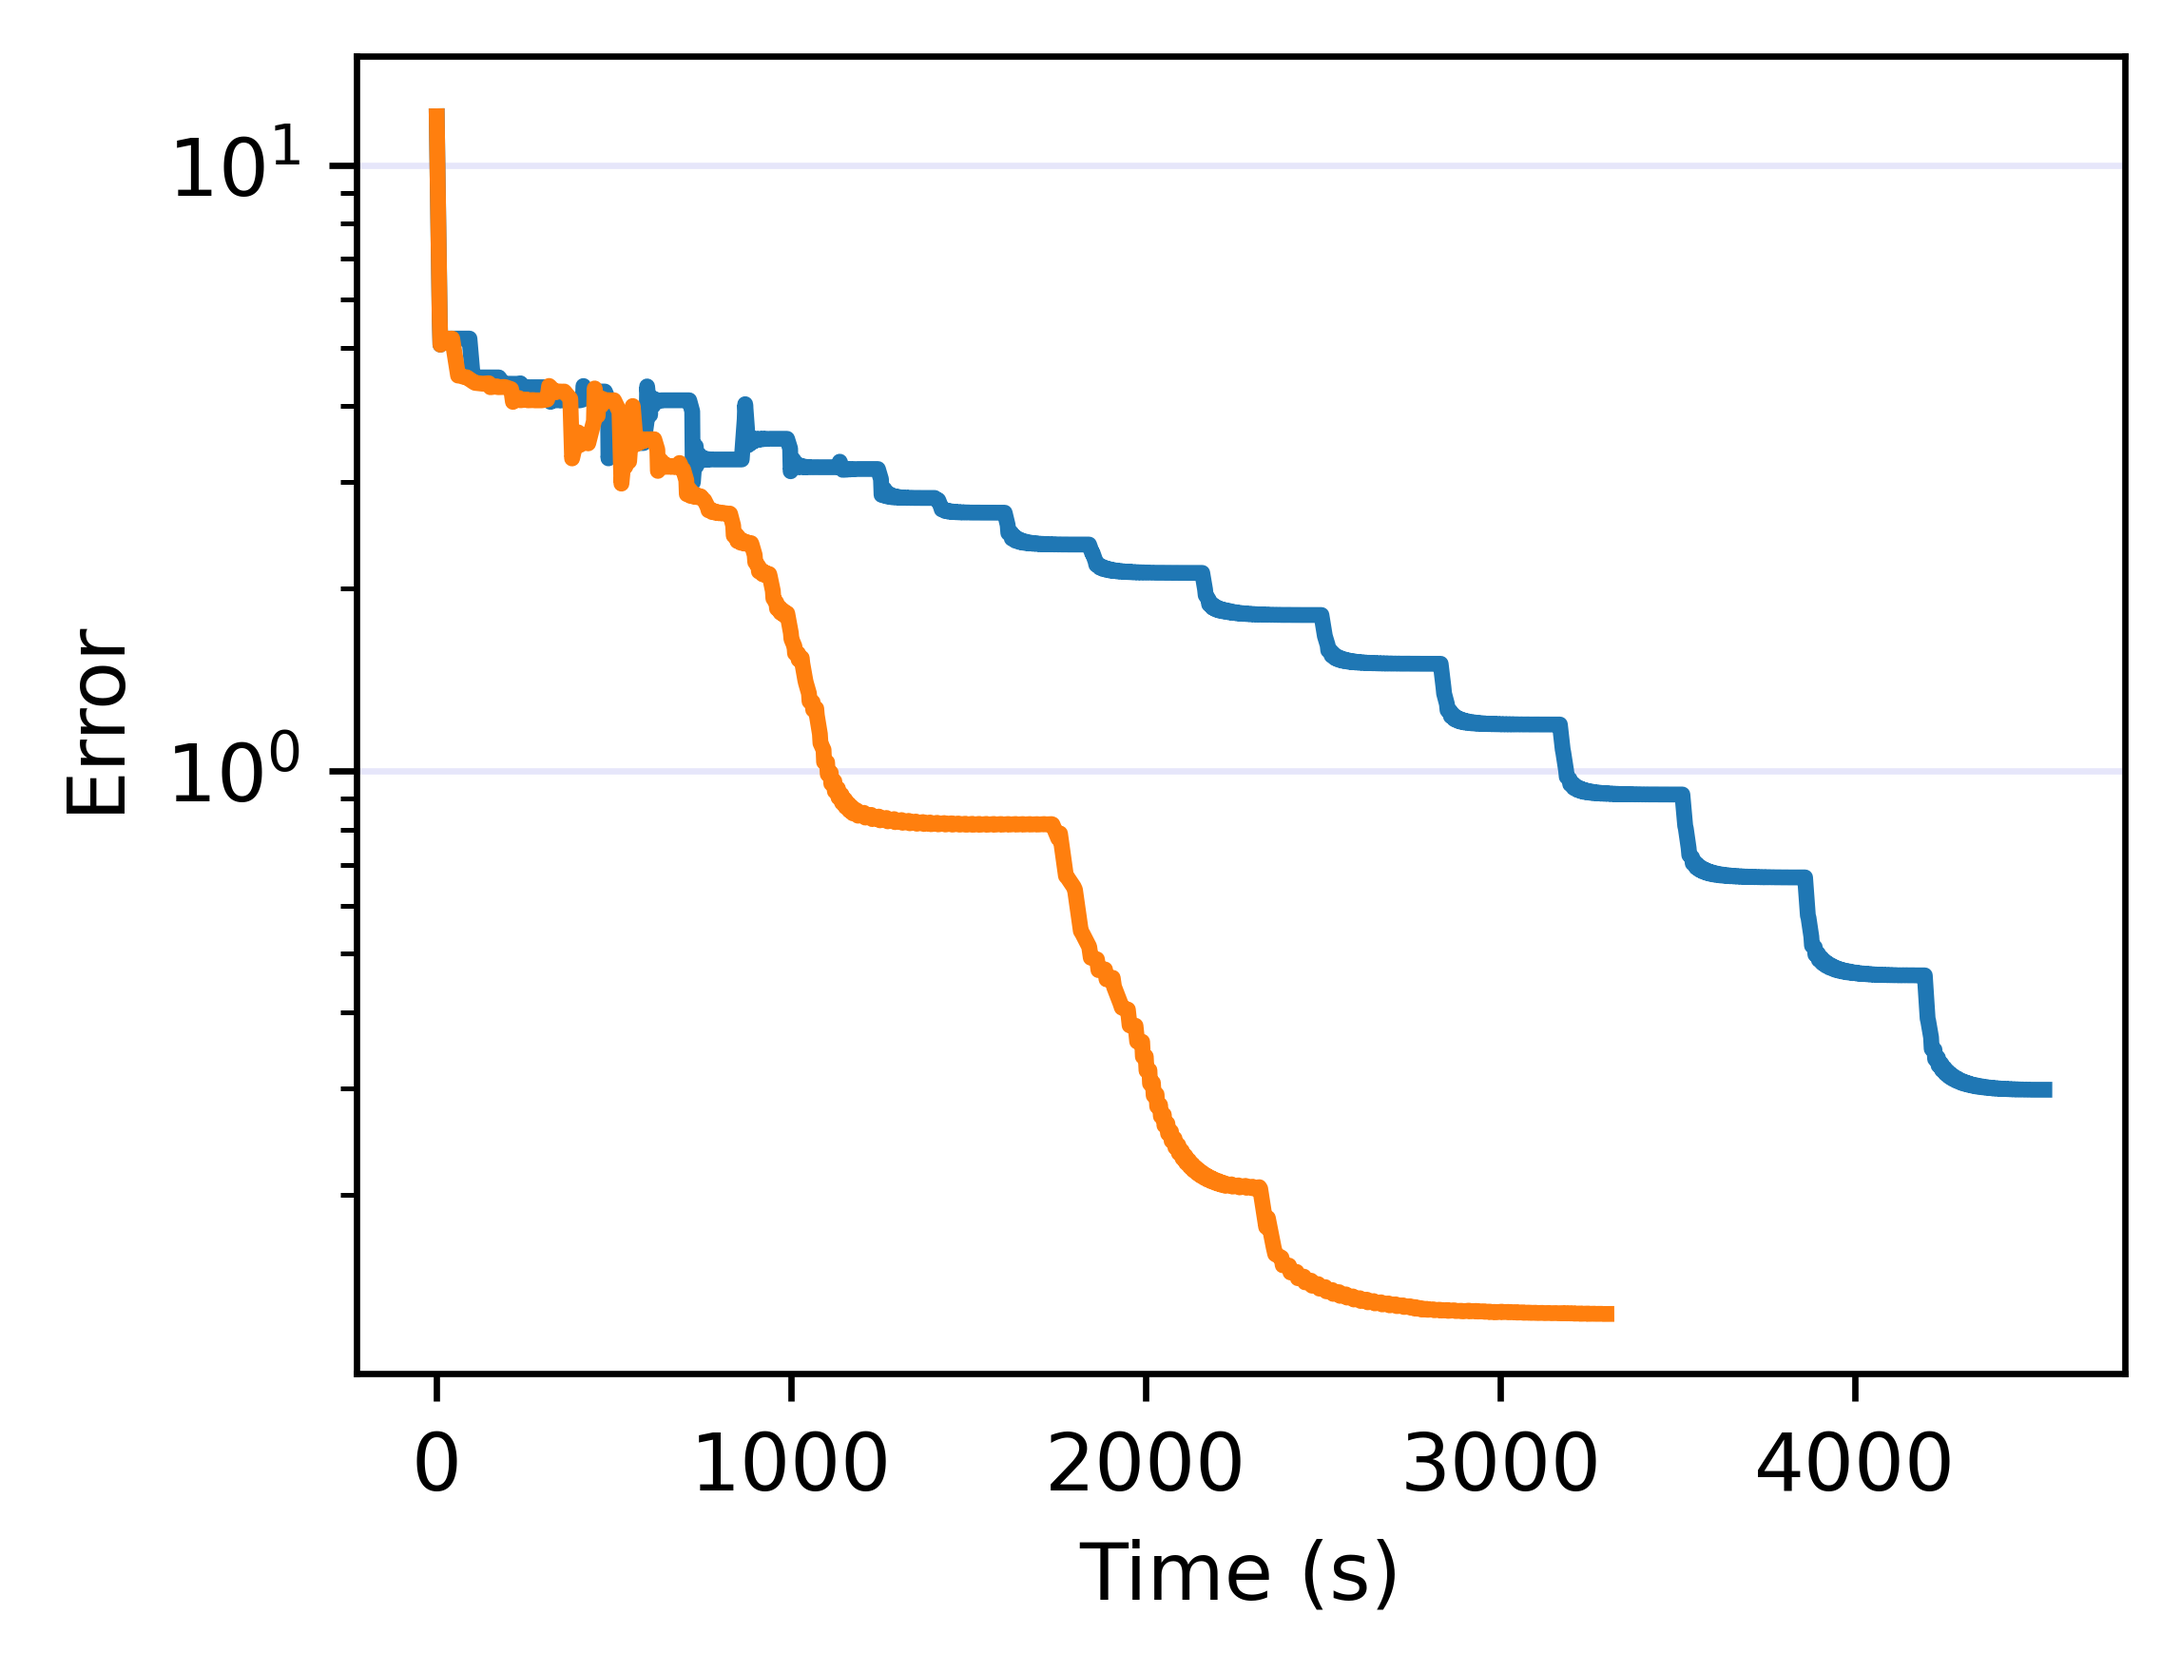
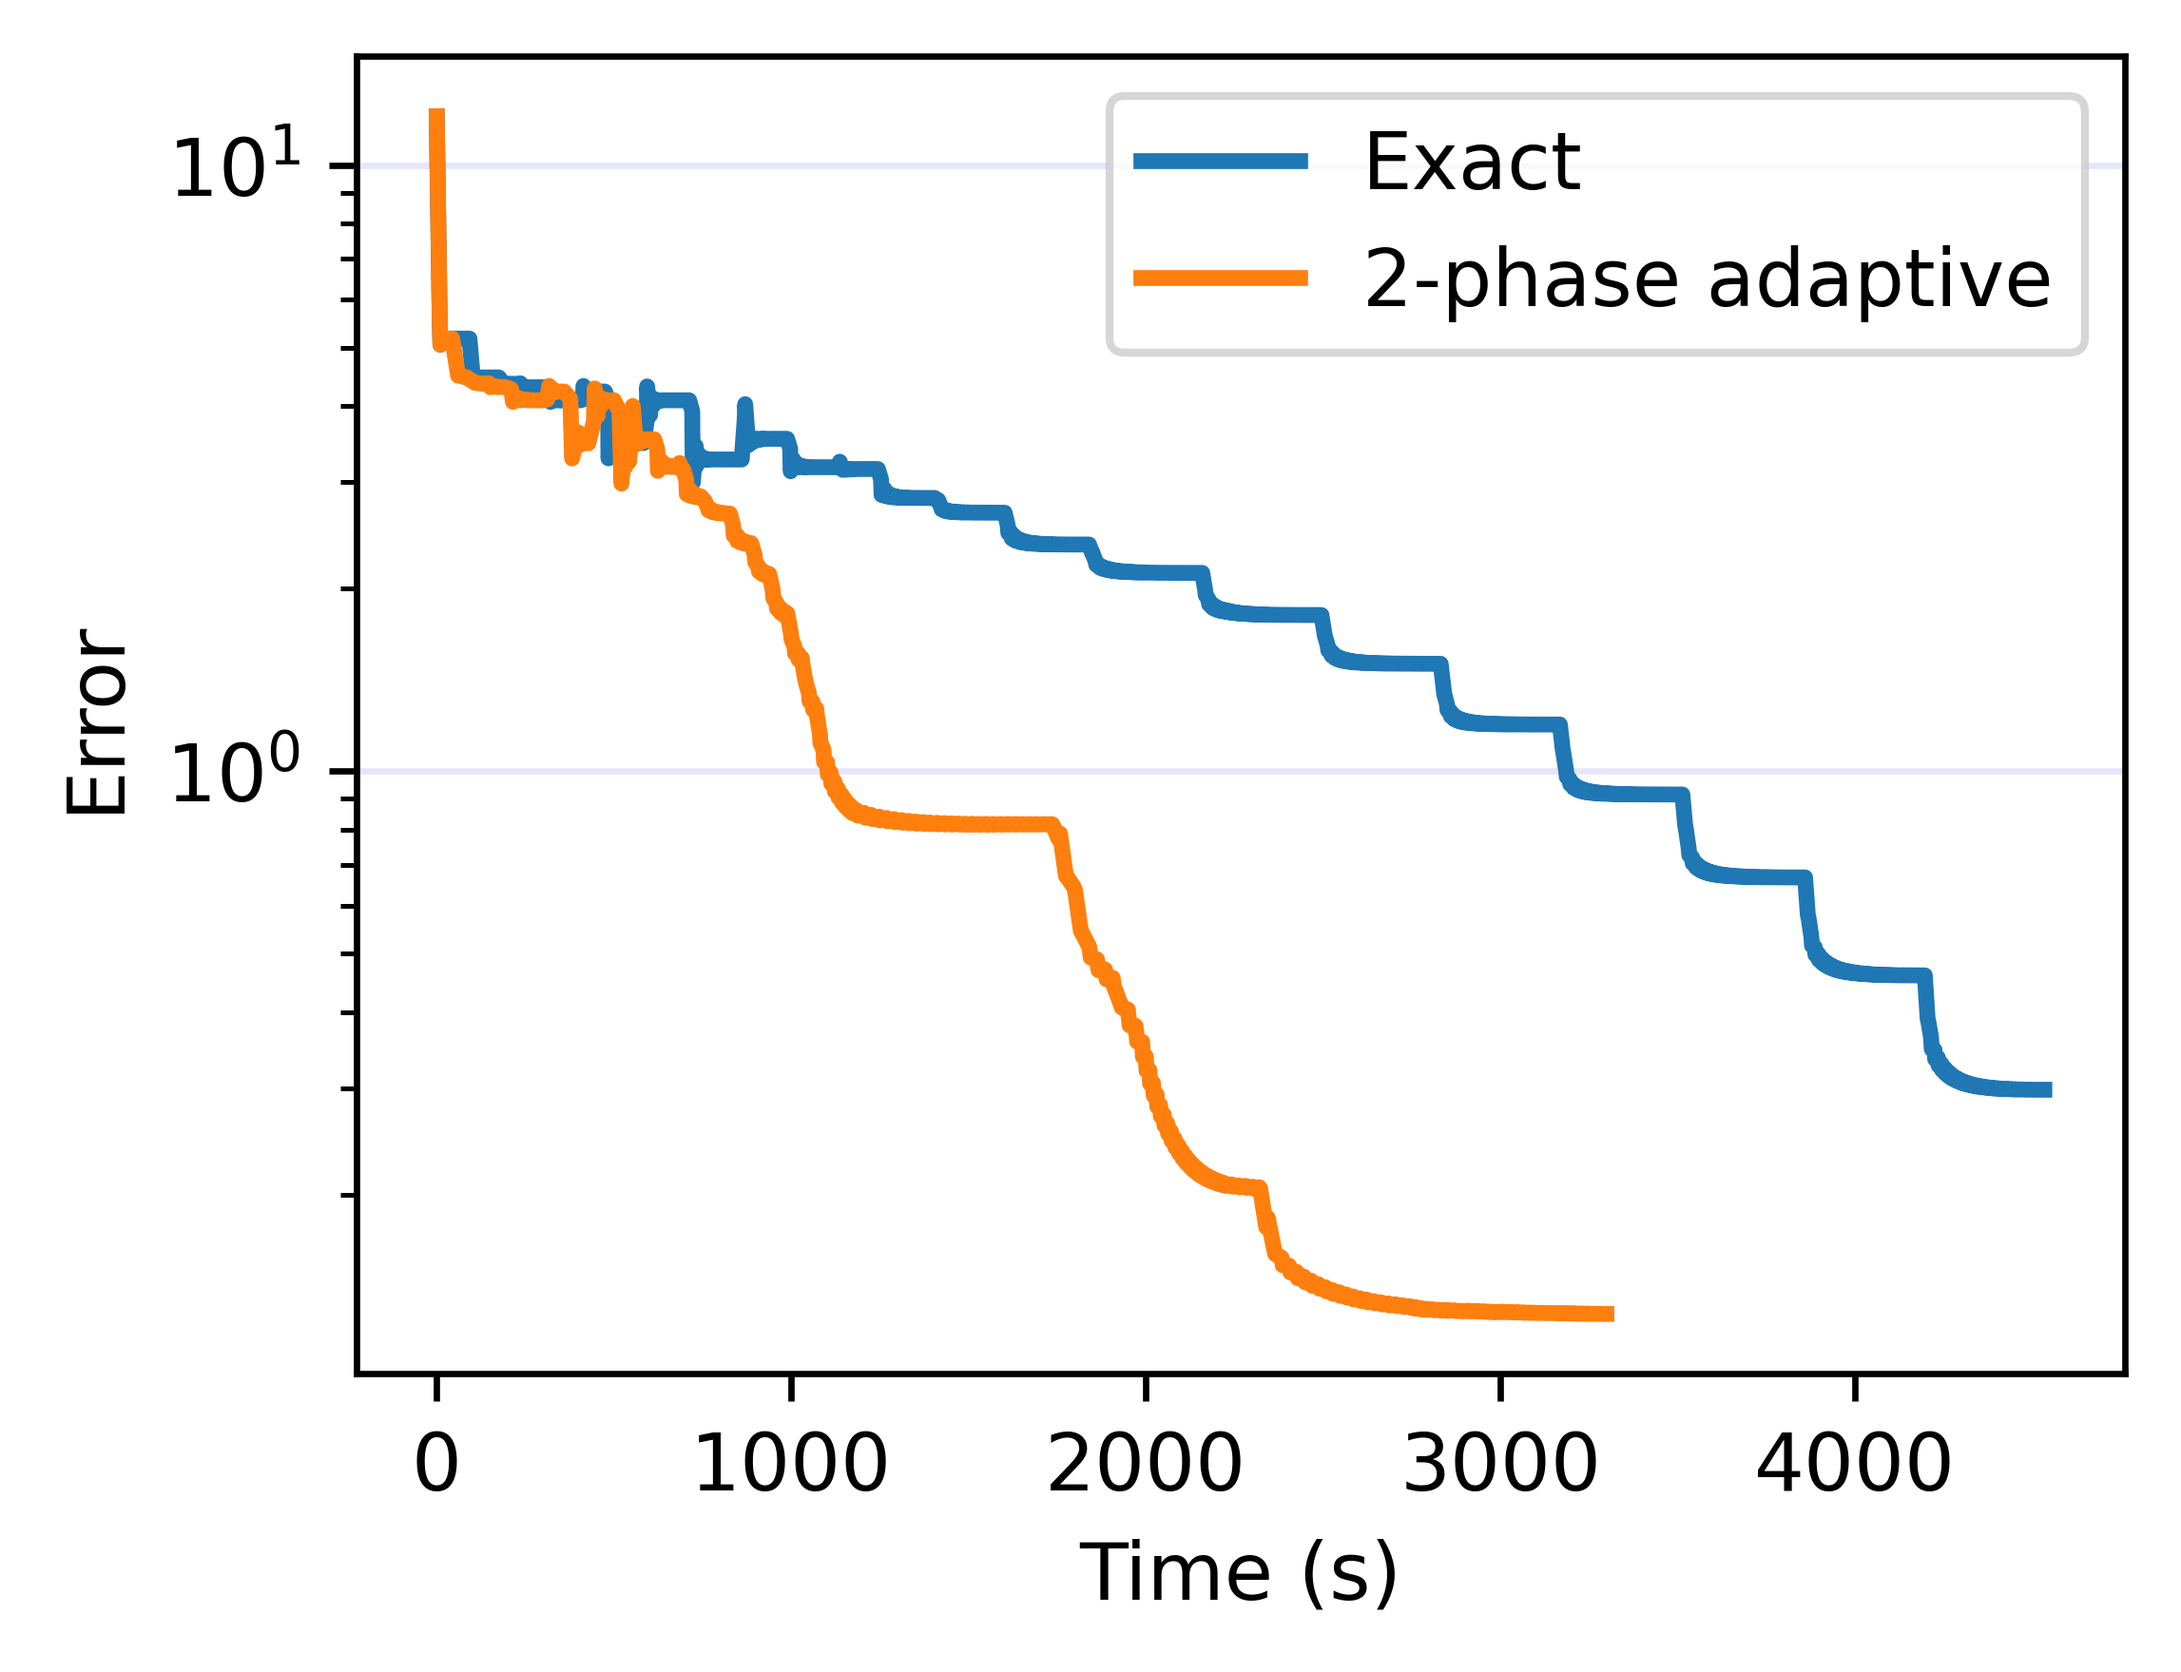
plots

Changed region(s): [[0.4952, 0.0307, 0.9595, 0.2149]]

diff --git a/examples/aero_structural/2phase_plot.py b/examples/aero_structural/2phase_plot.py
@@ -9,6 +9,7 @@ feasibility = data['feasibility']
 mu = data['mu_history']
 
 two_phase_data = np.load('examples/aero_structural/history4_2phase_r1p5_eps_1en1.npz')
+# two_phase_data = np.load('examples/aero_structural/history4_2phase_r1p5.npz')
 time_2phase = two_phase_data['x_time']
 error_2phase = two_phase_data['error']
 feasibility_2phase = two_phase_data['feasibility']
@@ -20,5 +21,23 @@ plt.semilogy(time_2phase, error_2phase, color='tab:orange', label='2-phase adapt
 plt.xlabel('Time (s)')
 plt.ylabel('Error')
 plt.grid(axis='y', color='lavender')
-plt.savefig('two_phase_aero_struct_error.png', bbox_inches='tight', transparent=True, dpi=600)
+plt.legend()
+# plt.savefig('two_phase_aero_struct_error.png', bbox_inches='tight', transparent=True, dpi=600)
+plt.show()
+
+
+
+
+plt.figure(figsize=(4, 3))
+plt.semilogy(feasibility, color='tab:blue', label='Feasibility', linewidth=2)
+plt.semilogy(feasibility_2phase, color='tab:orange', label='2-phase adaptive', linewidth=2, linestyle='--')
+# add a dashed horizontal line at y=1e-3
+plt.axhline(1e-3, color='gray', linestyle=':', label='_nolegend_')
+# add text saying 'tolerance'
+plt.text(5, 1e-3*1.5, 'Feasibility tolerance', fontsize=8, ha='center')
+plt.xlabel('Outer-loop iteration')
+plt.ylabel('Feasibility')
+plt.grid(axis='y', color='lavender')
+plt.legend()
+# plt.savefig('two_phase_aero_struct_feasibility.png', bbox_inches='tight', transparent=True, dpi=600)
 plt.show()
